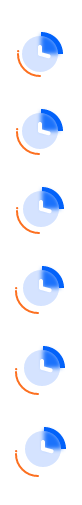
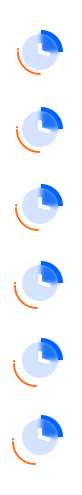
feat: 调整首页优质代理动画

diff --git a/src/client/static/css/home.scss b/src/client/static/css/home.scss
@@ -168,28 +168,28 @@
 
 @keyframes keyframe-proxy1 {
   0% {
-    background-position-y: -25px;
+    background-position-y: -29px;
   }
   100% {
-    background-position-y: -424px;
+    background-position-y: -427px;
   }
 }
 
 @keyframes keyframe-proxy2 {
   0% {
-    background-position-y: -24px;
+    background-position-y: -16px;
   }
   100% {
-    background-position-y: -473px;
+    background-position-y: -432px;
   }
 }
 
 @keyframes keyframe-proxy3 {
   0% {
-    background-position-y: -25px;
+    background-position-y: -26px;
   }
   100% {
-    background-position-y: -425px;
+    background-position-y: -411px;
   }
 }
 // 产品核心优势
@@ -210,7 +210,7 @@
 //优质代理IP资源
 @mixin proxyIconImg {
   width: 60px;
-  height: 65px;
+  height: 62px;
 }
 
 .common-main-button {
@@ -432,19 +432,19 @@
           .icon-img1 {
             background: url("/images/home/proxy1.png") no-repeat;
             background-size: 82px 517px;
-            background-position: -10px -25px;
+            background-position: -10px -29px;
             @include proxyIconImg;
           }
           .icon-img2 {
             background: url("/images/home/proxy2.png") no-repeat;
-            background-size: 82px 568px;
-            background-position: -16px -24px;
+            background-size: 82px 522px;
+            background-position: -18px -16px;
             @include proxyIconImg;
           }
           .icon-img3 {
             background: url("/images/home/proxy3.png") no-repeat;
-            background-size: 82px 505px;
-            background-position: -10px -25px;
+            background-size: 82px 495px;
+            background-position: -6px -26px;
             @include proxyIconImg;
           }
         }
@@ -776,6 +776,10 @@
       display: flex;
       // flex-wrap: wrap;
       margin: 0 -20px;
+      .title {
+        font-size: 30px;
+        color: #091d43 !important;
+      }
       > li {
         // min-width: 340px;
         // width: 340px;
@@ -785,6 +789,7 @@
         // border-radius: 8px;
         position: relative;
         cursor: pointer;
+
         .arrow {
           opacity: 0;
           transition: all 0.3s;
@@ -992,19 +997,19 @@
   &:hover {
     border-radius: 0 !important;
     .bottom {
-      animation: animateBottom 1s linear 0s;
+      animation: animateBottom 0.6s linear 0s;
       animation-fill-mode: forwards;
     }
     .left {
-      animation: animateLeft 1s linear 1s;
+      animation: animateLeft 0.6s linear 1s;
       animation-fill-mode: forwards;
     }
     .top {
-      animation: animateTop 1s linear 0s;
+      animation: animateTop 0.6s linear 0s;
       animation-fill-mode: forwards;
     }
     .right {
-      animation: animateRight 1s linear 1s;
+      animation: animateRight 0.6s linear 1s;
       animation-fill-mode: forwards;
     }
   }
